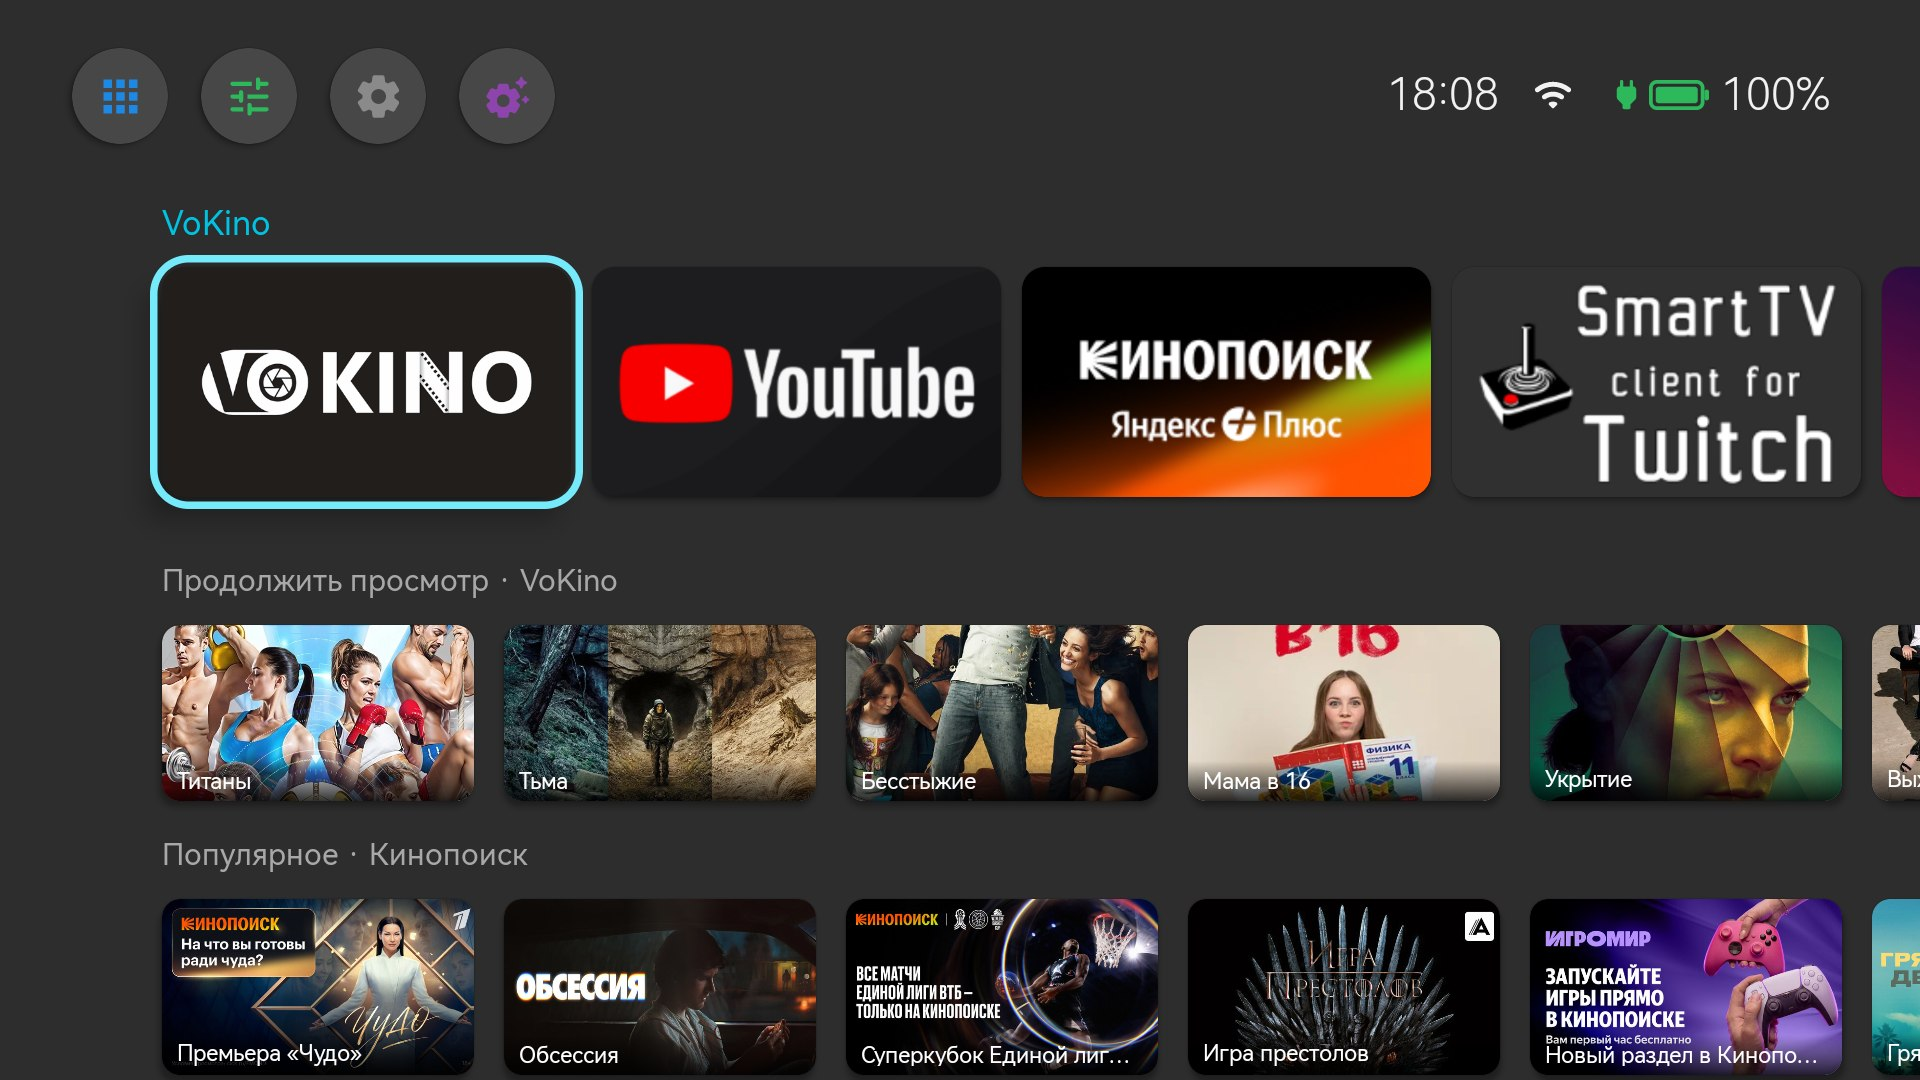
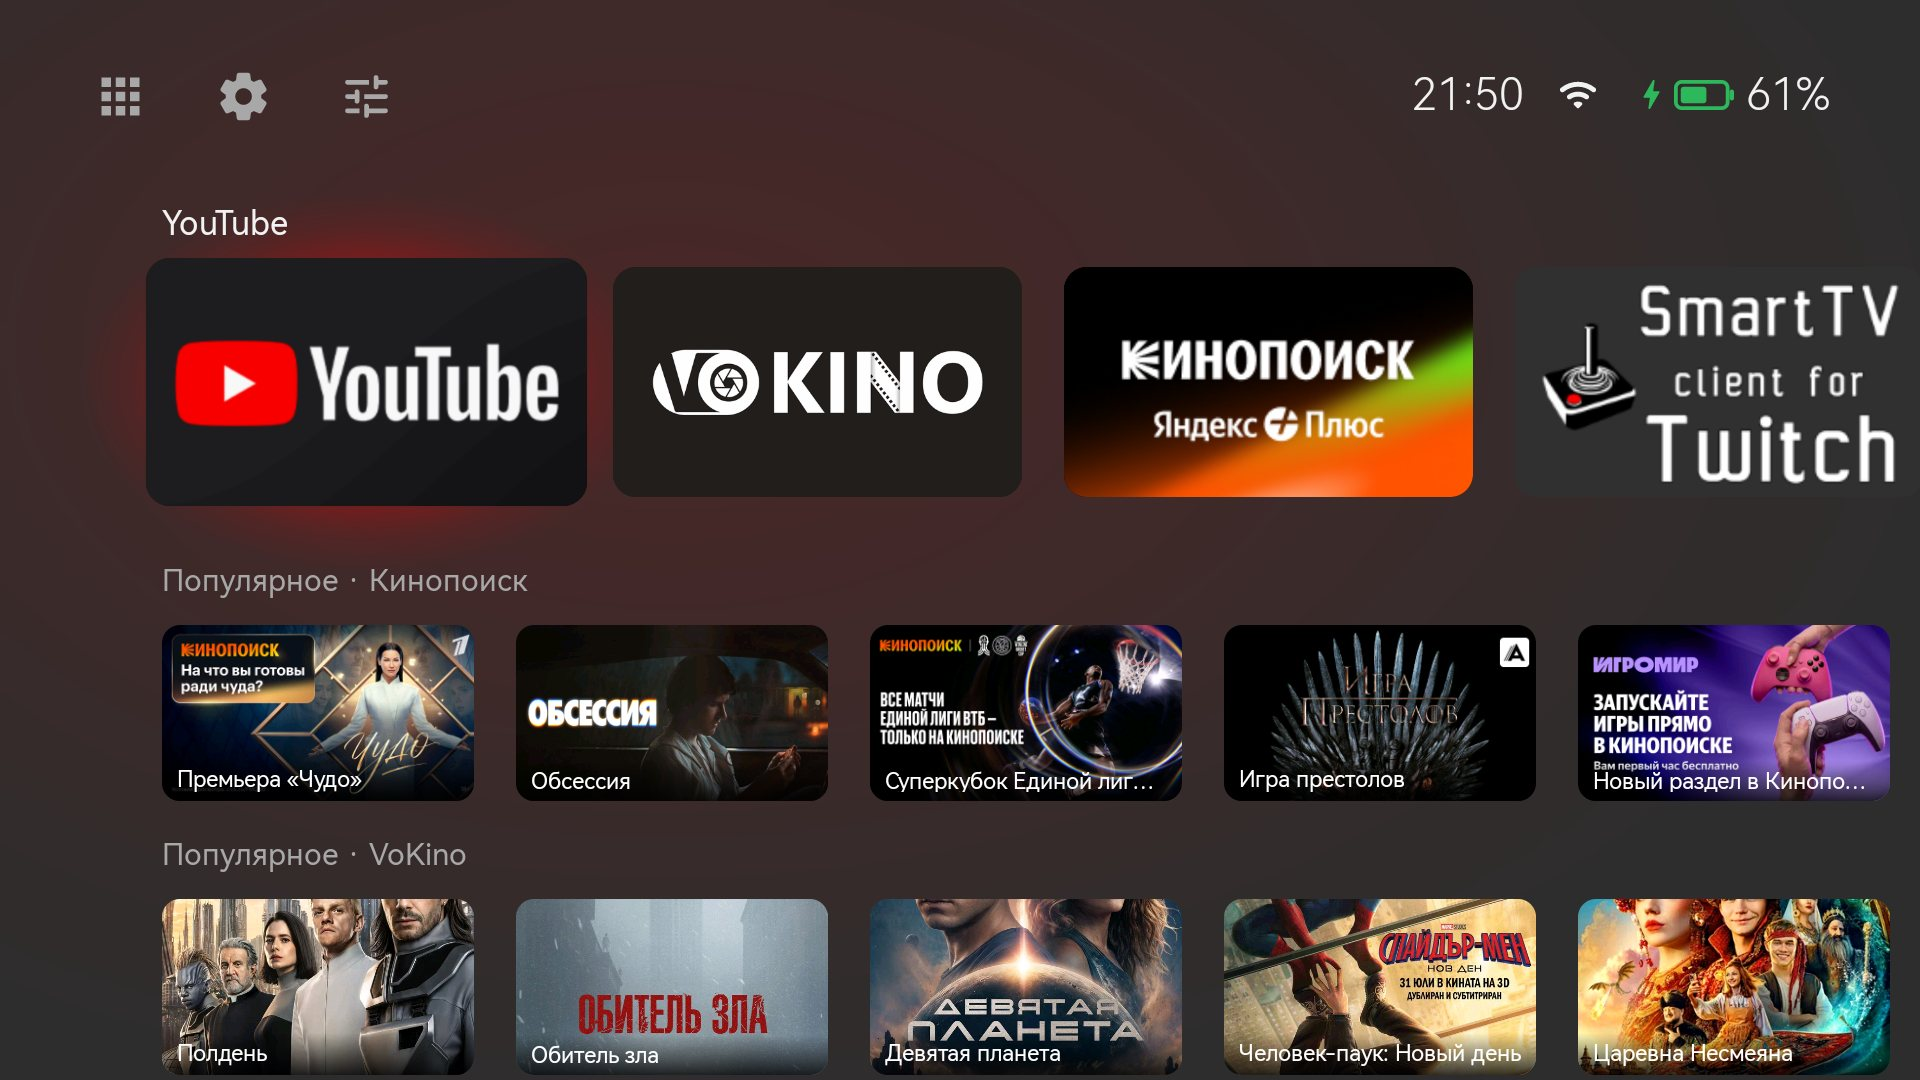
0.3-ru2: new screenshots, full list of this build's changes
README (ru/en): every change compared to Beam 0.3, grouped (home screen, status bar,
appearance, panel, install, fixes); new screenshots: home, Beam panel, appearance, moving a
tile, All apps, OK-hold menu. Shorter hint under the background tint switch (it was cut off).

diff --git a/README.md b/README.md
@@ -18,20 +18,60 @@
 
 Это модификация Beam от **Dobrein** на основе оригинала
 [tonisaf/beam-launcher](https://github.com/tonisaf/beam-launcher) (автор — tonisaf). Версия и авторы
-видны в самом лаунчере: панель настроек → «О Beam». Отличия от оригинала:
+видны в самом лаунчере: панель настроек → «О Beam». Что изменено по сравнению с Beam 0.3:
 
+**Главный экран**
+
+- **Выбор как на Google TV**: выбранная плитка немного увеличивается, а за ней светится мягкий
+  ореол в цвет приложения (красный у YouTube, оранжевый у Кинопоиска). При переходе ореол плавно
+  перетекает с плитки на плитку. Голубой рамки и голубых подписей больше нет.
+- **Фон в цвет приложения**: фон слегка окрашивается в цвет выбранного приложения. Выключается в
+  «Оформлении».
 - **Порядок плиток задаётся вручную**: зажать OK → «Переместить», ◀ ▶ двигают плитку, OK —
-  готово, Назад — отмена. Автосортировки по использованию нет; новые приложения встают в конец.
-  Плитки HDMI и USB тоже можно двигать и скрывать.
+  готово, Назад — отмена. Плитки сдвигаются плавно, ряд прокручивается следом. Автосортировки по
+  использованию нет, как на Google TV; новые приложения встают в конец. Плитки HDMI и USB тоже
+  можно двигать и скрывать.
 - **Меню по зажатию OK**: Открыть · Переместить · Скрыть с главного · Удалить. Отпускание OK больше
-  не открывает приложение.
+  не открывает приложение (и во «Всех приложениях» тоже).
 - **Плитки 16:9** под формат баннеров Android TV, без полос сверху и снизу.
-- **Несколько рядов каналов** (настройки → Главный экран → «Ряды каналов»), плавный переход
-  между рядами как на Google TV. Обложки VoKino и Кинопоиска грузятся и при включённом VPN.
-- **Статус-бар**: зарядка (заряжается / от сети, но разряжается / полная), время работы от батареи,
-  предупреждение о низком заряде на 15% и 5% поверх любого приложения, значок VPN.
-- **Панель настроек**: затемнение как у панели XGIMI, открывается сразу и целиком, без звука;
-  выбор заставки (XGIMI или установленная, например Aerial Views); страница «О Beam».
+- **Три кнопки сверху**, без серых кругов: «Все приложения», «Настройки XGIMI» (открывают быстрые
+  настройки XGIMI, оттуда — все настройки) и «Настройки Beam».
+- **Несколько рядов каналов** (настройки Beam → Главный экран → «Ряды каналов») и плавный переход
+  между рядами, как на Google TV. Обложки VoKino и Кинопоиска грузятся и при включённом VPN.
+- **Плавная загрузка**: пока приложения и каналы читаются, на их месте видны заглушки с бегущим
+  бликом, и экран не прыгает.
+- **Плавнее прокрутка**: обложки хранятся уменьшенными, тени убраны, лишняя перерисовка тоже.
+- **RuStore больше не скрыт** по умолчанию.
+
+**Статус-бар**
+
+- **Зарядка**: заряжается / от сети, но разряжается / заряжен полностью.
+- **Оставшееся время работы от батареи**, предупреждение о низком заряде на 15% и 5% поверх
+  любого приложения.
+- **Значок VPN**, когда VPN включён.
+
+**Оформление**
+
+- **Шесть новых фонов**: Графит, Полночь, Бордо, Изумруд, Аврора, Песок (у каждого светлый и
+  тёмный вариант).
+- **Переключатель «Фон в цвет приложения».**
+
+**Панель настроек Beam**
+
+- **Затемнение как у панели XGIMI**; открывается сразу и целиком, без анимации и без звука.
+- **Выбор заставки**: XGIMI или установленная (например, Aerial Views).
+- **Страница «О Beam»**: версия и авторы.
+
+**Установка (`restore.ps1`)**
+
+- **Сама заменяет оригинальный Beam** (эта сборка подписана другим ключом, см. ниже).
+- **По желанию**: `-AerialViews` ставит заставку Aerial Views, `-KeepBackgroundApps` не даёт
+  прошивке закрывать фоновые приложения (VPN, музыку).
+
+**Исправления**
+
+- Стоковый лаунчер XGIMI мог вернуться после перезагрузки сразу после установки.
+- Порядок плиток мог сохраниться не тот, что на экране.
 
 **Переход с оригинального Beam.** Эта сборка подписана другим ключом, поэтому поверх оригинала
 не ставится. Скрипт установки сам заменит его: вернёт стоковый лаунчер, удалит старый Beam и
@@ -54,17 +94,17 @@
 
 ## Скриншоты
 
-| Главный экран | Панель быстрых настроек |
+| Главный экран | Панель настроек Beam |
 |---|---|
-| ![Главный экран](docs/screenshots/home.jpg) | ![Панель быстрых настроек](docs/screenshots/panel.jpg) |
+| ![Главный экран](docs/screenshots/home.jpg) | ![Панель настроек Beam](docs/screenshots/panel.jpg) |
 
-| Изображение | Звук |
+| Оформление | Перемещение плитки |
 |---|---|
-| ![Изображение](docs/screenshots/picture.jpg) | ![Звук](docs/screenshots/sound.jpg) |
+| ![Оформление](docs/screenshots/appearance.jpg) | ![Перемещение плитки](docs/screenshots/move.jpg) |
 
-| Трапеция и размер | Настройка трапеции на экране |
+| Все приложения | Меню по зажатию OK |
 |---|---|
-| ![Трапеция и размер](docs/screenshots/keystone.jpg) | ![Настройка трапеции на экране](docs/screenshots/keystone-screen.webp) |
+| ![Все приложения](docs/screenshots/all-apps.jpg) | ![Меню по зажатию OK](docs/screenshots/menu.jpg) |
 
 ## Установка
 
@@ -375,6 +415,7 @@ cp local.env.example local.env   # впишите IP проектора (и пу
 
 ```sh
 adb shell am broadcast -n com.home.tiles/.AdbCommandReceiver --es background XMB --ez bg_animation true
+adb shell am broadcast -n com.home.tiles/.AdbCommandReceiver --ez ambient_tint false   # фон в цвет приложения
 adb shell am broadcast -n com.home.tiles/.AdbCommandReceiver --es bt_name "XGIMI Play 6"
 adb shell am start -n com.home.tiles/.MicTestActivity --ei seconds 6   # проверка микрофона пульта
 ```

diff --git a/README.en.md b/README.en.md
@@ -19,11 +19,58 @@ refuses English as a system language. Voice commands are Russian only.
 
 A modification of Beam by **Dobrein**, based on the original
 [tonisaf/beam-launcher](https://github.com/tonisaf/beam-launcher) by tonisaf (version and credits:
-panel → "About Beam"). Differences: tiles are ordered by hand ("Move" in the OK-hold menu, no
-automatic sorting), the OK-hold menu no longer opens the app on release, 16:9 tiles, several
-channel rows with Google TV style paging, posters load behind a VPN, charging state / time left /
-low-battery warnings / VPN icon in the status bar, and a panel matched to XGIMI's (scrim, opens at
-once and complete, silent), with a screensaver choice and an "About Beam" page.
+panel → "About Beam"). What's changed compared to Beam 0.3:
+
+**Home screen**
+
+- **Google TV style selection**: the selected tile grows a little, with a soft light behind it in
+  the app's colour (red for YouTube, orange for Kinopoisk). Moving the selection crossfades the
+  light from tile to tile. The cyan frame and cyan captions are gone.
+- **Background in the app's colour**: the background takes on a faint tint of the selected app's
+  colour. Can be turned off in Appearance.
+- **Tiles are ordered by hand**: hold OK → "Move", ◀ ▶ move the tile, OK to finish, Back to cancel.
+  Tiles slide into place and the row scrolls along. No automatic sorting by usage, like Google TV;
+  new apps go to the end. The HDMI and USB tiles can be moved and hidden too.
+- **OK-hold menu**: Open · Move · Hide from home · Uninstall. Releasing OK no longer opens the app
+  (in All apps either).
+- **16:9 tiles** to fit Android TV banners, with no bars at the top and bottom.
+- **Three top buttons**, without the grey circles: All apps, XGIMI settings (opens XGIMI's quick
+  settings, which lead on to all settings) and Beam settings.
+- **Several channel rows** (Beam settings → Home screen → "Channel rows") with Google TV style
+  paging between rows. VoKino and Kinopoisk posters load even with a VPN on.
+- **Smooth loading**: while the apps and channels are read, placeholders with a moving shine hold
+  their places, so the screen doesn't jump.
+- **Smoother scrolling**: posters are kept downscaled, shadows and needless redraws are gone.
+- **RuStore is no longer hidden** by default.
+
+**Status bar**
+
+- **Charging state**: charging / plugged in but draining / full.
+- **Battery time left**, and low-battery warnings at 15% and 5% over any app.
+- **A VPN icon** while a VPN is on.
+
+**Appearance**
+
+- **Six new backgrounds**: Graphite, Midnight, Burgundy, Emerald, Aurora, Sand (each with a light
+  and a dark version).
+- **A "Background in app colour" switch.**
+
+**Beam settings panel**
+
+- **Darkening like XGIMI's panel**; it opens at once and complete, with no animation and no sound.
+- **Screensaver choice**: XGIMI's or an installed one (for example Aerial Views).
+- **An "About Beam" page**: version and credits.
+
+**Installation (`restore.ps1`)**
+
+- **Replaces the original Beam by itself** (this build is signed with another key, see below).
+- **Optional**: `-AerialViews` installs the Aerial Views screensaver, `-KeepBackgroundApps` stops the
+  firmware closing background apps (VPN, music).
+
+**Fixes**
+
+- The stock XGIMI launcher could come back after the reboot right after installing.
+- The tile order could be saved differently from what was on screen.
 
 **Coming from the original Beam:** this build is signed with another key, so the install script
 replaces it (stock launcher back first, then the old Beam and its button stubs out); Beam's own
@@ -47,17 +94,17 @@ settings start over.
 
 The screenshots show the Russian interface.
 
-| Home screen | Quick settings panel |
+| Home screen | Beam settings panel |
 |---|---|
-| ![Home screen](docs/screenshots/home.jpg) | ![Quick settings panel](docs/screenshots/panel.jpg) |
+| ![Home screen](docs/screenshots/home.jpg) | ![Beam settings panel](docs/screenshots/panel.jpg) |
 
-| Picture | Sound |
+| Appearance | Moving a tile |
 |---|---|
-| ![Picture](docs/screenshots/picture.jpg) | ![Sound](docs/screenshots/sound.jpg) |
+| ![Appearance](docs/screenshots/appearance.jpg) | ![Moving a tile](docs/screenshots/move.jpg) |
 
-| Keystone and size | On-screen keystone setup |
+| All apps | OK-hold menu |
 |---|---|
-| ![Keystone and size](docs/screenshots/keystone.jpg) | ![On-screen keystone setup](docs/screenshots/keystone-screen.webp) |
+| ![All apps](docs/screenshots/all-apps.jpg) | ![OK-hold menu](docs/screenshots/menu.jpg) |
 
 ## Installation
 
@@ -216,10 +263,10 @@ Read this before running it:
 - sets the system language to Russian, the time zone to **Europe/Moscow** and the Bluetooth name to
   "XGIMI Play 6". Other values are set with `-Locale`, `-TimeZone`, `-BluetoothName` (or `LOCALE`,
   `TIMEZONE`, `BT_NAME` in `local.env`); `-SkipSystem` leaves these three settings alone. Note
+  that the firmware won't accept English as the system language; use Beam's own language setting
+  instead;
 - optionally: `-AerialViews` installs and turns on the Aerial Views screensaver, `-KeepBackgroundApps`
   stops the firmware closing background apps (`persist.xgimi.restrictbackground.enable`).
-  that the firmware won't accept English as the system language; use Beam's own language setting
-  instead.
 
 ### Rolling back
 
@@ -373,6 +420,7 @@ the way you'd expect: [docs/xgimi-firmware.en.md](docs/xgimi-firmware.en.md).
 
 ```sh
 adb shell am broadcast -n com.home.tiles/.AdbCommandReceiver --es background XMB --ez bg_animation true
+adb shell am broadcast -n com.home.tiles/.AdbCommandReceiver --ez ambient_tint false   # background in app colour
 adb shell am broadcast -n com.home.tiles/.AdbCommandReceiver --es bt_name "XGIMI Play 6"
 adb shell am start -n com.home.tiles/.MicTestActivity --ei seconds 6   # test the remote's microphone
 ```
